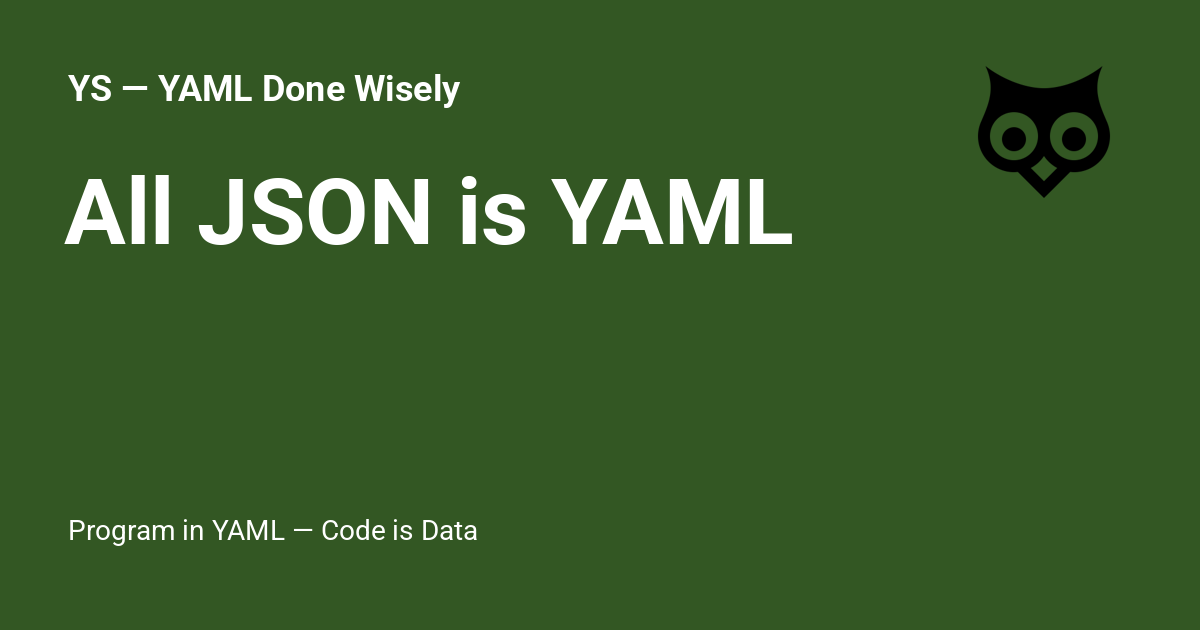
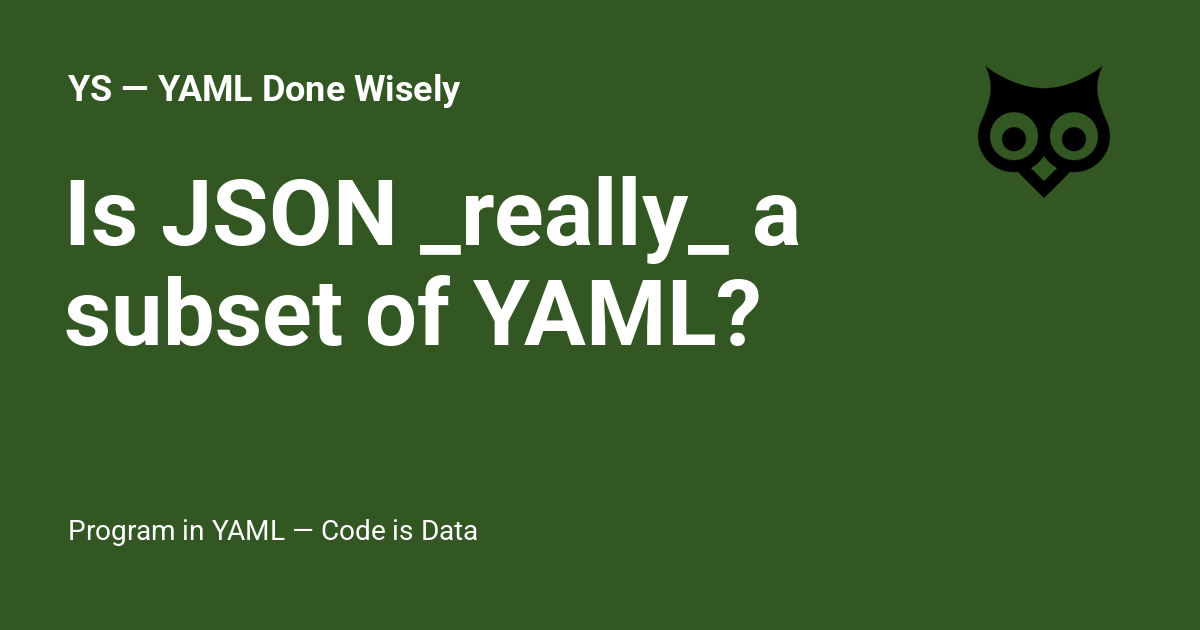
Publish Tue Jul 29 10:02:26 PM PDT 2025

Changed region(s): [[0.0308, 0.2714, 0.6783, 0.573]]

diff --git a/blog/archive/2025/index.html b/blog/archive/2025/index.html
@@ -1982,9 +1982,9 @@ height="0" width="0" style="display:none;visibility:hidden"></iframe></noscript>
     <ul class="md-nav__list" data-md-component="toc" data-md-scrollfix>
       
         <li class="md-nav__item">
-  <a href="#all-json-is-yaml" class="md-nav__link">
+  <a href="#is-json-really-a-subset-of-yaml" class="md-nav__link">
     <span class="md-ellipsis">
-      All JSON is YAML
+      Is JSON really a subset of YAML?
     </span>
   </a>
   
@@ -2620,9 +2620,9 @@ height="0" width="0" style="display:none;visibility:hidden"></iframe></noscript>
     <ul class="md-nav__list" data-md-component="toc" data-md-scrollfix>
       
         <li class="md-nav__item">
-  <a href="#all-json-is-yaml" class="md-nav__link">
+  <a href="#is-json-really-a-subset-of-yaml" class="md-nav__link">
     <span class="md-ellipsis">
-      All JSON is YAML
+      Is JSON really a subset of YAML?
     </span>
   </a>
   
@@ -2893,7 +2893,7 @@ height="0" width="0" style="display:none;visibility:hidden"></iframe></noscript>
     </div>
   </header>
   <div class="md-post__content md-typeset">
-    <h2 id="all-json-is-yaml"><a class="toclink" href="../../2025-07-29/all-json-is-yaml/">All JSON is YAML</a></h2>
+    <h2 id="is-json-really-a-subset-of-yaml"><a class="toclink" href="../../2025-07-29/is-json-_really_-a-subset-of-yaml/">Is JSON <em>really</em> a subset of YAML?</a></h2>
 <p>YAML is a superset of JSON.</p>
 <p>This is a basic truth about YAML.</p>
 <p>I assume that in 2025, most people who use YAML and JSON regularly already know
@@ -2902,7 +2902,7 @@ this.</p>
 
     
       <nav class="md-post__action">
-        <a href="../../2025-07-29/all-json-is-yaml/">
+        <a href="../../2025-07-29/is-json-_really_-a-subset-of-yaml/">
           Continue reading
         </a>
       </nav>

diff --git a/blog/category/summer-of-ys/index.html b/blog/category/summer-of-ys/index.html
@@ -2153,9 +2153,9 @@ height="0" width="0" style="display:none;visibility:hidden"></iframe></noscript>
     <ul class="md-nav__list" data-md-component="toc" data-md-scrollfix>
       
         <li class="md-nav__item">
-  <a href="#all-json-is-yaml" class="md-nav__link">
+  <a href="#is-json-really-a-subset-of-yaml" class="md-nav__link">
     <span class="md-ellipsis">
-      All JSON is YAML
+      Is JSON really a subset of YAML?
     </span>
   </a>
   
@@ -2620,9 +2620,9 @@ height="0" width="0" style="display:none;visibility:hidden"></iframe></noscript>
     <ul class="md-nav__list" data-md-component="toc" data-md-scrollfix>
       
         <li class="md-nav__item">
-  <a href="#all-json-is-yaml" class="md-nav__link">
+  <a href="#is-json-really-a-subset-of-yaml" class="md-nav__link">
     <span class="md-ellipsis">
-      All JSON is YAML
+      Is JSON really a subset of YAML?
     </span>
   </a>
   
@@ -2893,7 +2893,7 @@ height="0" width="0" style="display:none;visibility:hidden"></iframe></noscript>
     </div>
   </header>
   <div class="md-post__content md-typeset">
-    <h2 id="all-json-is-yaml"><a class="toclink" href="../../2025-07-29/all-json-is-yaml/">All JSON is YAML</a></h2>
+    <h2 id="is-json-really-a-subset-of-yaml"><a class="toclink" href="../../2025-07-29/is-json-_really_-a-subset-of-yaml/">Is JSON <em>really</em> a subset of YAML?</a></h2>
 <p>YAML is a superset of JSON.</p>
 <p>This is a basic truth about YAML.</p>
 <p>I assume that in 2025, most people who use YAML and JSON regularly already know
@@ -2902,7 +2902,7 @@ this.</p>
 
     
       <nav class="md-post__action">
-        <a href="../../2025-07-29/all-json-is-yaml/">
+        <a href="../../2025-07-29/is-json-_really_-a-subset-of-yaml/">
           Continue reading
         </a>
       </nav>

diff --git a/blog/index.html b/blog/index.html
@@ -2353,9 +2353,9 @@ height="0" width="0" style="display:none;visibility:hidden"></iframe></noscript>
     <ul class="md-nav__list" data-md-component="toc" data-md-scrollfix>
       
         <li class="md-nav__item">
-  <a href="#all-json-is-yaml" class="md-nav__link">
+  <a href="#is-json-really-a-subset-of-yaml" class="md-nav__link">
     <span class="md-ellipsis">
-      All JSON is YAML
+      Is JSON really a subset of YAML?
     </span>
   </a>
   
@@ -2629,7 +2629,7 @@ height="0" width="0" style="display:none;visibility:hidden"></iframe></noscript>
     </div>
   </header>
   <div class="md-post__content md-typeset">
-    <h2 id="all-json-is-yaml"><a class="toclink" href="2025-07-29/all-json-is-yaml/">All JSON is YAML</a></h2>
+    <h2 id="is-json-really-a-subset-of-yaml"><a class="toclink" href="2025-07-29/is-json-_really_-a-subset-of-yaml/">Is JSON <em>really</em> a subset of YAML?</a></h2>
 <p>YAML is a superset of JSON.</p>
 <p>This is a basic truth about YAML.</p>
 <p>I assume that in 2025, most people who use YAML and JSON regularly already know
@@ -2638,7 +2638,7 @@ this.</p>
 
     
       <nav class="md-post__action">
-        <a href="2025-07-29/all-json-is-yaml/">
+        <a href="2025-07-29/is-json-_really_-a-subset-of-yaml/">
           Continue reading
         </a>
       </nav>

diff --git a/blog/2025-07-28/ys-on-jank-bb-and-ys/index.html b/blog/2025-07-28/ys-on-jank-bb-and-ys/index.html
@@ -18,7 +18,7 @@
         <link rel="prev" href="../../2025-07-27/fun-in-the-sundays/">
       
       
-        <link rel="next" href="../../2025-07-29/all-json-is-yaml/">
+        <link rel="next" href="../../2025-07-29/is-json-_really_-a-subset-of-yaml/">
       
       
         <link rel="alternate" type="application/rss+xml" title="RSS feed" href="/rss.xml">
@@ -2765,13 +2765,13 @@ FizzBuzz
         
         
           
-          <a href="../../2025-07-29/all-json-is-yaml/" class="md-footer__link md-footer__link--next" aria-label="Next: All JSON is YAML">
+          <a href="../../2025-07-29/is-json-_really_-a-subset-of-yaml/" class="md-footer__link md-footer__link--next" aria-label="Next: Is JSON _really_ a subset of YAML?">
             <div class="md-footer__title">
               <span class="md-footer__direction">
                 Next
               </span>
               <div class="md-ellipsis">
-                All JSON is YAML
+                Is JSON _really_ a subset of YAML?
               </div>
             </div>
             <div class="md-footer__button md-icon">